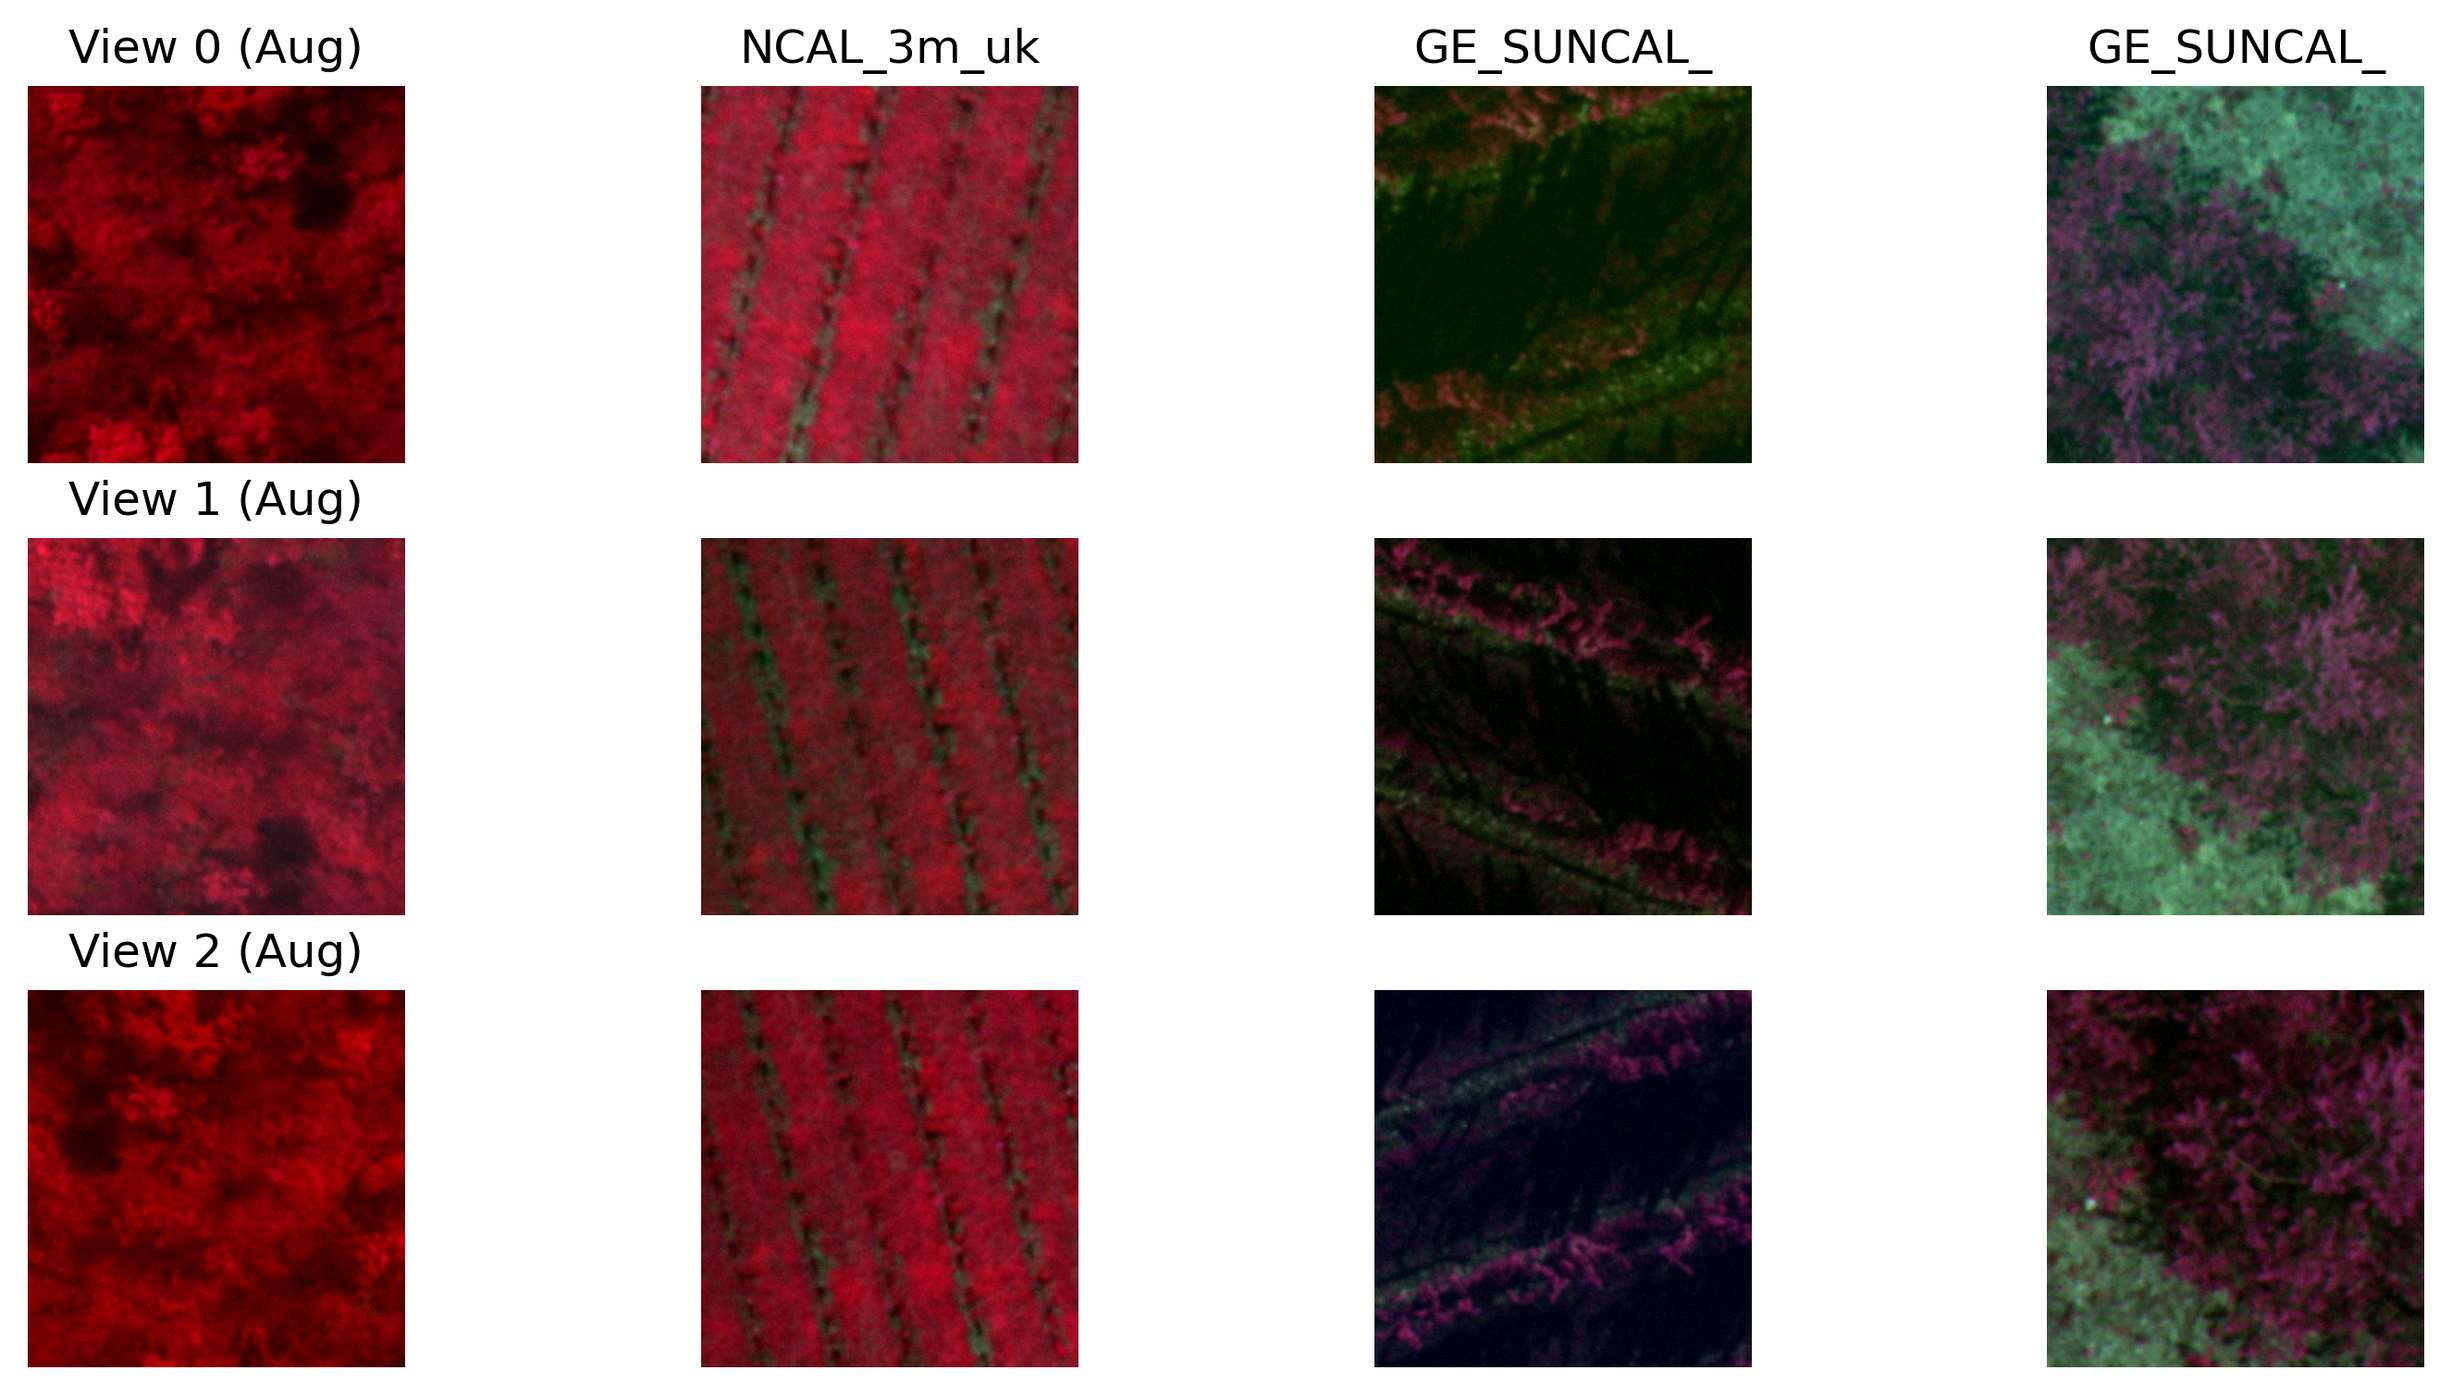
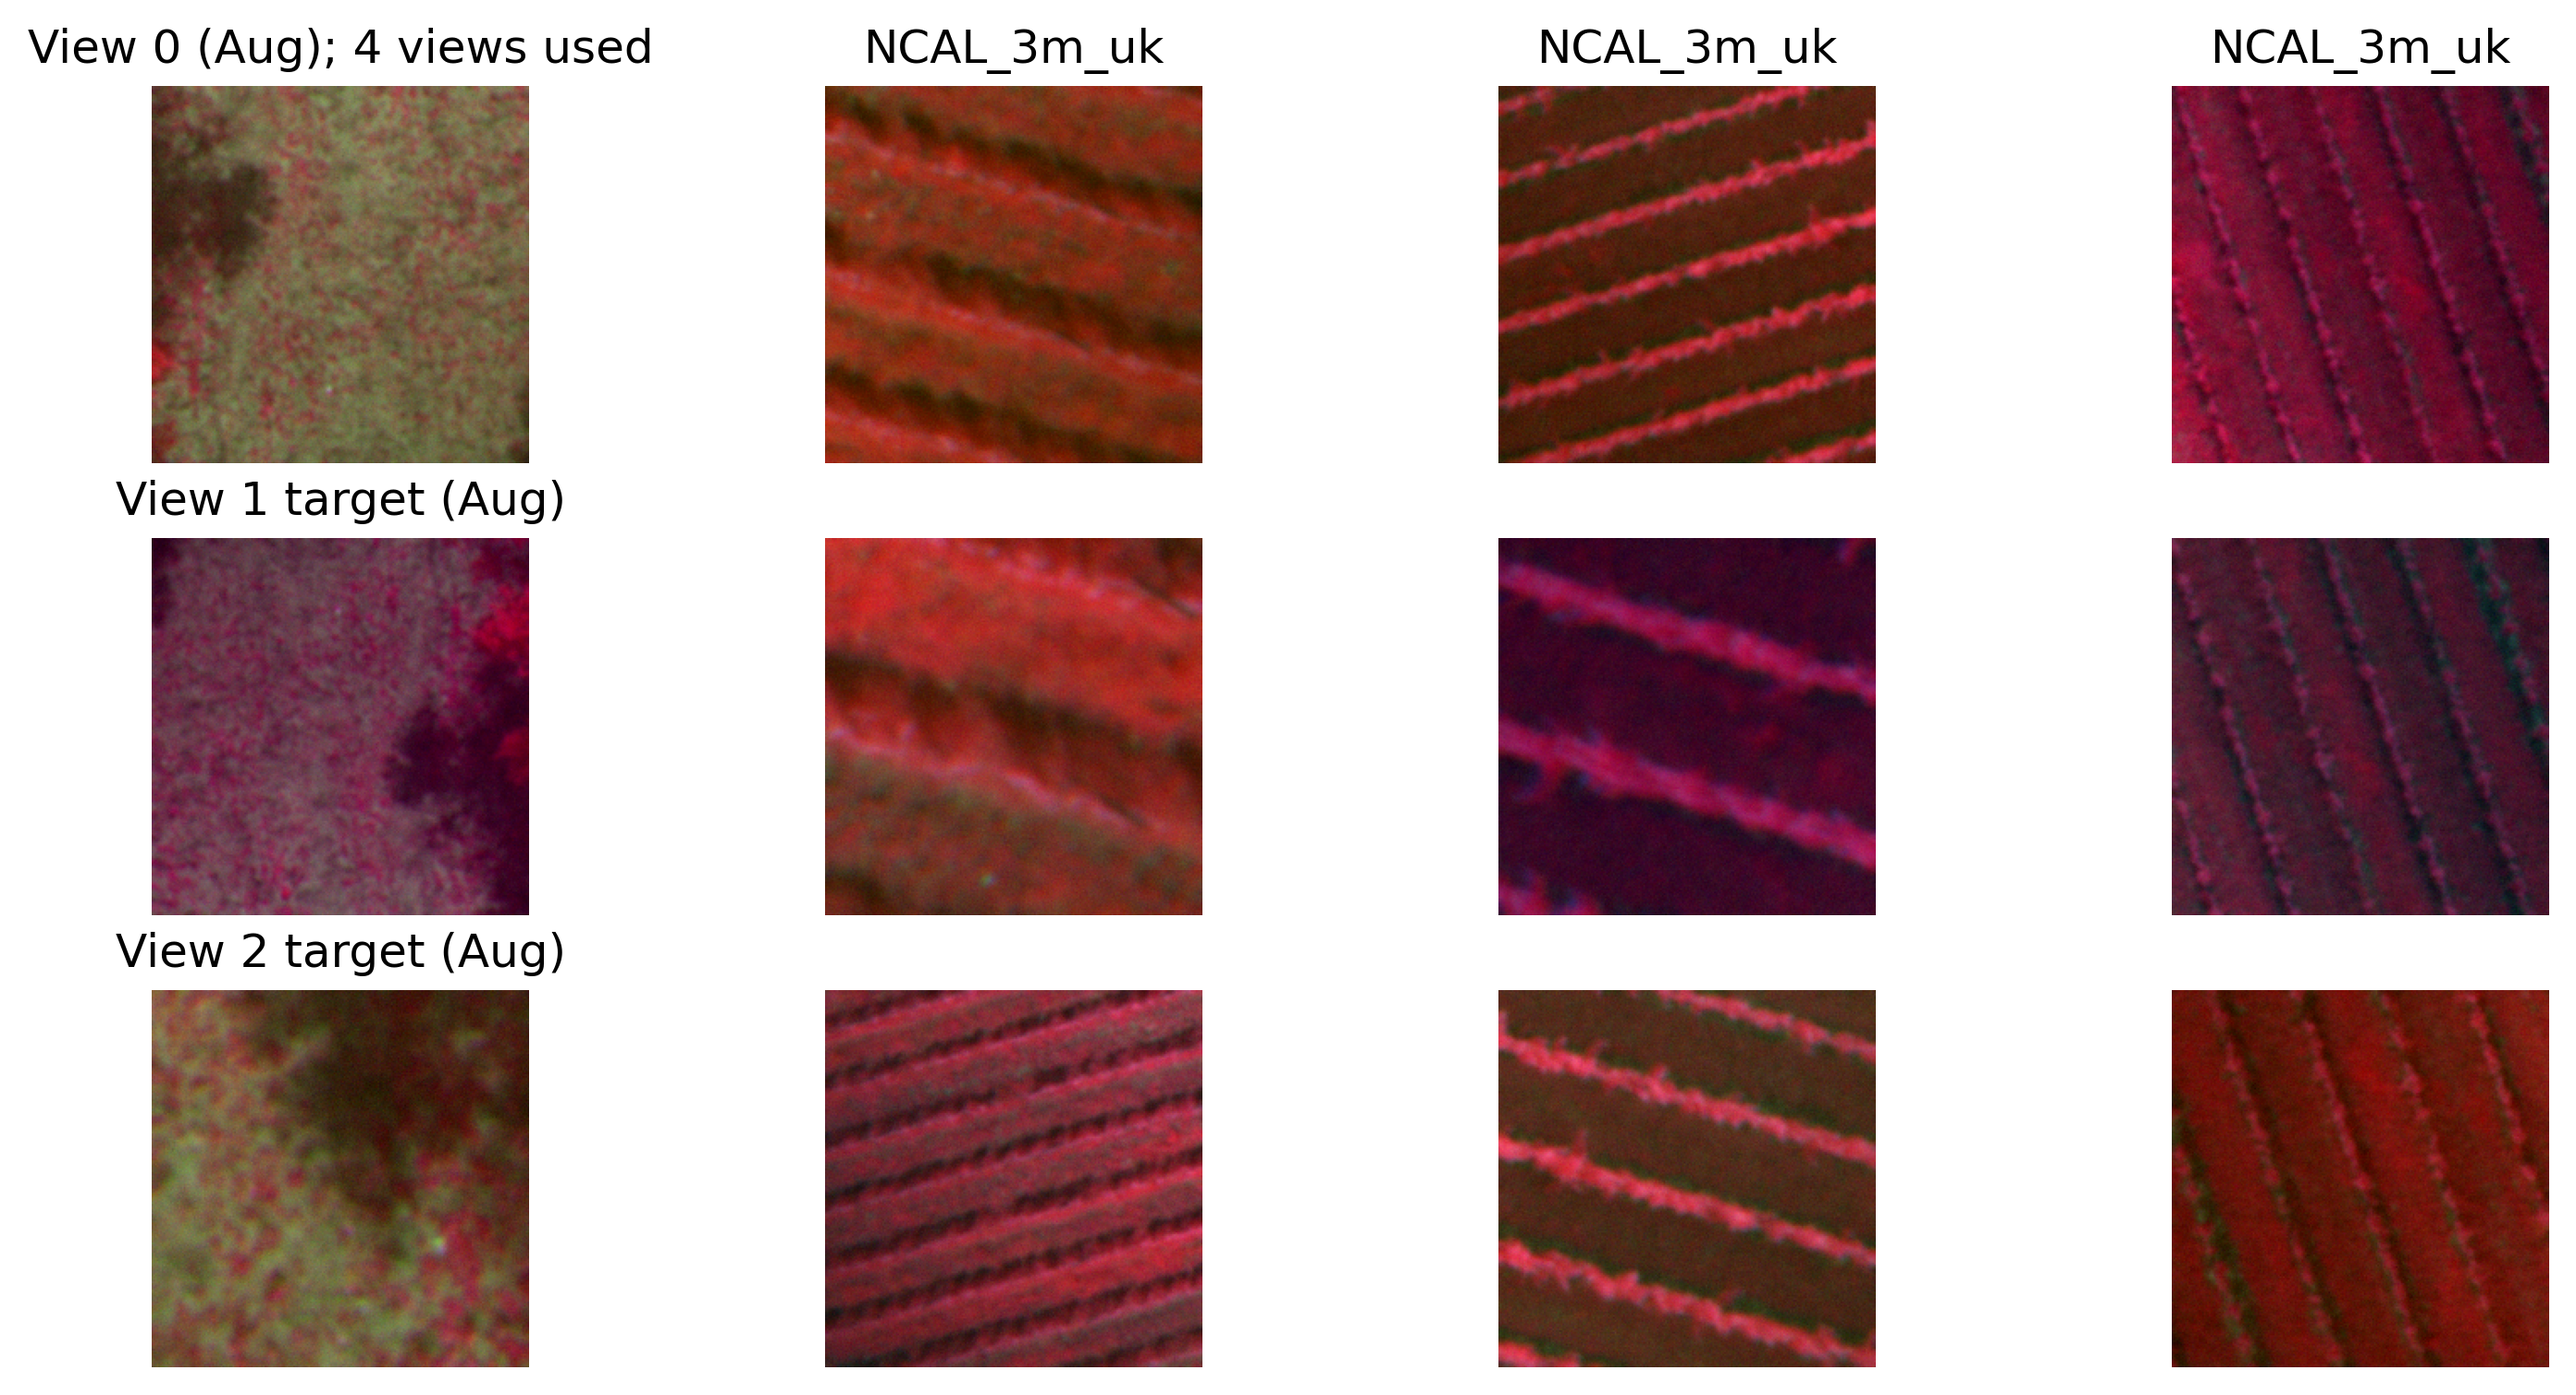
add vit-s

diff --git a/multissl/train.py b/multissl/train.py
@@ -30,7 +30,7 @@ def get_args():
     
     # Self-Supervised Learning Model
     parser.add_argument("--in_channels", type=int, default = 4, help = "Number of input channels of the image")
-    parser.add_argument("--backbone", type=str, default="resnet18", choices=["resnet18", "resnet50"], help="Backbone model for SSL")
+    parser.add_argument("--backbone", type=str, default="resnet18", choices=["resnet18", "resnet50", "vit-s"], help="Backbone model for SSL")
     parser.add_argument("--ssl_method", type=str, default="fastsiam", choices=["simclr", "simsiam", "fastsiam"], help="SSL method")
     parser.add_argument("--hidden_dim", type=int, default=2048, help="Hidden layer dimension")
     parser.add_argument("--proj_dim", type=int, default=256, help="Projection head dimension")
@@ -43,7 +43,7 @@ def get_args():
     parser.add_argument("--momentum", type=float, default=0.9, help="Momentum for optimizer")
     parser.add_argument("--weight_decay", type=float, default=1e-4, help="Weight decay")
     parser.add_argument("--dataset_size", type=int, default = 1_000_000, help = "Dataset size, overridden after dataloading" )
-    parser.add_argument("--num_views", type = int, default = 3, help = "Number of augmentation views to feed the SSL, FastSIAM found 3 to be best")
+    parser.add_argument("--num_views", type = int, default = 4, help = "Number of augmentation views to feed the SSL, FastSIAM found 3 target + 1 base to be best")
 
  
     # Miscellaneous

diff --git a/multissl/plots.py b/multissl/plots.py
@@ -29,8 +29,10 @@ def plot_first_batch(batch, output_dir):
     views, targets, filenames = batch
     if len(views) == 3:
         view0, view1, view2 = views  # Unpacking two views from MultiViewCollate
-    else:
+        t = 3
+    elif len(views) > 3:
         view0, view1, view2, _ = views  # Unpacking two views from MultiViewCollate
+        t = len(views)
     # Plot 4 samples with two views each (3 rows, 4 columns)
     fig, axes = plt.subplots(3, 4, figsize=(12, 6))
 
@@ -52,9 +54,9 @@ def plot_first_batch(batch, output_dir):
         axes[2, i].imshow(img_view2)
         axes[2, i].axis("off")
 
-    axes[0, 0].set_title("View 0 (Aug)")
-    axes[1, 0].set_title("View 1 (Aug)")
-    axes[2, 0].set_title("View 2 (Aug)")
+    axes[0, 0].set_title("View 0 (Aug); {} views used".format(t))
+    axes[1, 0].set_title("View 1 target (Aug)")
+    axes[2, 0].set_title("View 2 target (Aug)")
 
     # Save figure
     save_path = os.path.join(output_dir, "lightly_multiview_batch.png")

diff --git a/multissl/data/transforms.py b/multissl/data/transforms.py
@@ -108,7 +108,7 @@ class ToTensor(object):
 def get_transform(args):
     img_size = args.input_size
     base =  [
-            RandomResizedCrop(size=img_size, scale=(0.5, 1)),  # Modify input_size as needed
+            RandomResizedCrop(size=img_size, scale=(0.2, 1)),  # Modify input_size as needed
             RandomHorizontalFlip(p=0.5),
             RandomVerticalFlip(p=0.5),
         ]
